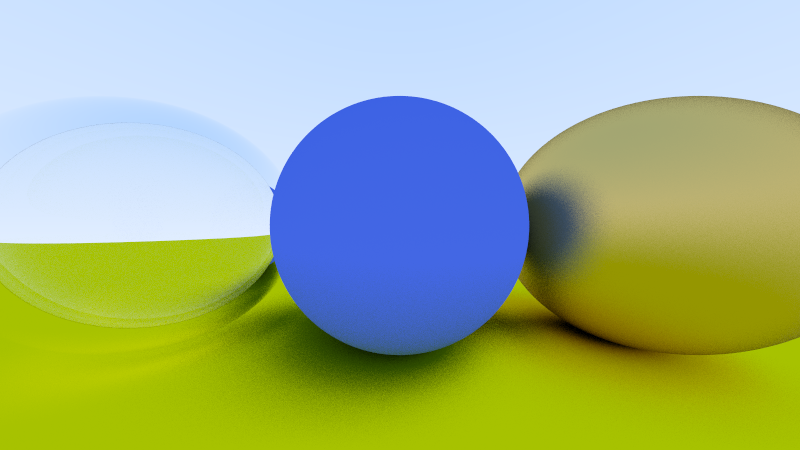
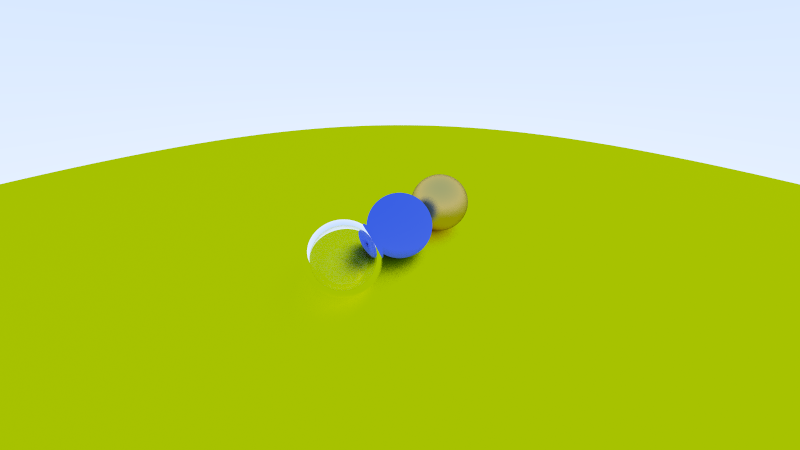
Add more flexible camera settings

diff --git a/src/tracer/camera.rs b/src/tracer/camera.rs
@@ -1,4 +1,4 @@
-use crate::utils::{Vector3, Image, IMG_WIDTH, IMG_HEIGHT, BOUNCE_AMOUNT, Colour, ORIGIN, SAMPLES, SAMPLE_SCALE, random_f32};
+use crate::utils::{Vector3, Image, IMG_WIDTH, IMG_HEIGHT, BOUNCE_AMOUNT, Colour, ORIGIN, SAMPLES, SAMPLE_SCALE, random_f32, FOCAL_LENGTH, Y_UNIT};
 use super::ray::Ray;
 use super::objects::{World, Sphere};
 extern crate minifb;
@@ -16,14 +16,24 @@ pub struct Camera {
 impl Camera {
     /// # `new`
     /// Creates a new Camera by taking its origin as `Vector3`, width and height of the viewport, both as `f32` and the focal length as `f32`
-    pub fn new(origin: Vector3, width: f32, height: f32, focal_length: f32) -> Camera {
-        let horizontal = Vector3::new(width, 0.0, 0.0);
-        let vertical = Vector3::new(0.0, height, 0.0);
+    pub fn new(from: Vector3, at: Vector3, vertical_fov: f32, aspect_ratio: f32) -> Camera {
+        let theta = vertical_fov.to_radians();
+        let height = (theta * 0.5).tan();
+        let viewport_height = 2.0 * height;
+        let viewport_width = aspect_ratio * viewport_height;
+
+        let w = (from - at).unit();
+        let u = Y_UNIT.cross(w).unit(); // Y_UNIT is viewport's up direction
+        let v = w.cross(u);
+
+        let horizontal =  viewport_width * u;
+        let vertical =  viewport_height * v;
+
         Camera {
-            origin: origin,
+            origin: from,
             horizontal: horizontal,
             vertical: vertical,
-            lower_left_corner: origin - horizontal / 2.0 - vertical / 2.0 - Vector3::new(0.0, 0.0, focal_length),
+            lower_left_corner: from - horizontal / 2.0 - vertical / 2.0 - w,
             image: Image::new(IMG_WIDTH, IMG_HEIGHT)
         }
     }

diff --git a/src/tracer/window.rs b/src/tracer/window.rs
@@ -1,7 +1,7 @@
 extern crate minifb;
 use minifb::{Key, Window as MFBWindow, WindowOptions};
 use super::{objects::World, Camera};
-use crate::utils::{IMG_WIDTH, IMG_HEIGHT, Vector3, VIEWPORT_WIDTH, VIEWPORT_HEIGHT, FOCAL_LENGTH, ORIGIN};
+use crate::utils::{IMG_WIDTH, IMG_HEIGHT, Vector3, VIEWPORT_WIDTH, VIEWPORT_HEIGHT, FOCAL_LENGTH, ORIGIN, ASPECT_RATIO};
 
 /// # `window`
 /// Holds the minifb buffer `Vec<u32>`, minifb window `Window` and camera `Camera`. Used to display the ray tracing on a window
@@ -19,7 +19,7 @@ impl Window {
         Window {
             buffer: vec![0; IMG_WIDTH * IMG_HEIGHT],
             window: MFBWindow::new("Ray Tracer", IMG_WIDTH, IMG_HEIGHT, WindowOptions::default()).unwrap(),
-            camera: Camera::new(ORIGIN, VIEWPORT_WIDTH, VIEWPORT_HEIGHT, FOCAL_LENGTH)
+            camera: Camera::new(Vector3::new(-2.0, 2.0, 1.0), Vector3::new(0.0, 0.0, -1.0), 90.0, ASPECT_RATIO)
         }
     }
 

diff --git a/src/main.rs b/src/main.rs
@@ -16,7 +16,7 @@ fn main() {
     world.objects.push(tracer::Sphere::new(utils::Vector3::new( 1.0, 0.0, -1.0), 0.5, material_right));
 
 
-    let mut cam : tracer::Camera = tracer::Camera::new(utils::ORIGIN, utils::VIEWPORT_WIDTH, utils::VIEWPORT_HEIGHT, utils::FOCAL_LENGTH);
+    let mut cam : tracer::Camera = tracer::Camera::new(utils::Vector3::new(-2.0, 2.0, 1.0), utils::Vector3::new(0.0, 0.0, -1.0), 90.0, utils::ASPECT_RATIO);
 
     //cam.render(&mut world, "outputx.png".to_string());
 
